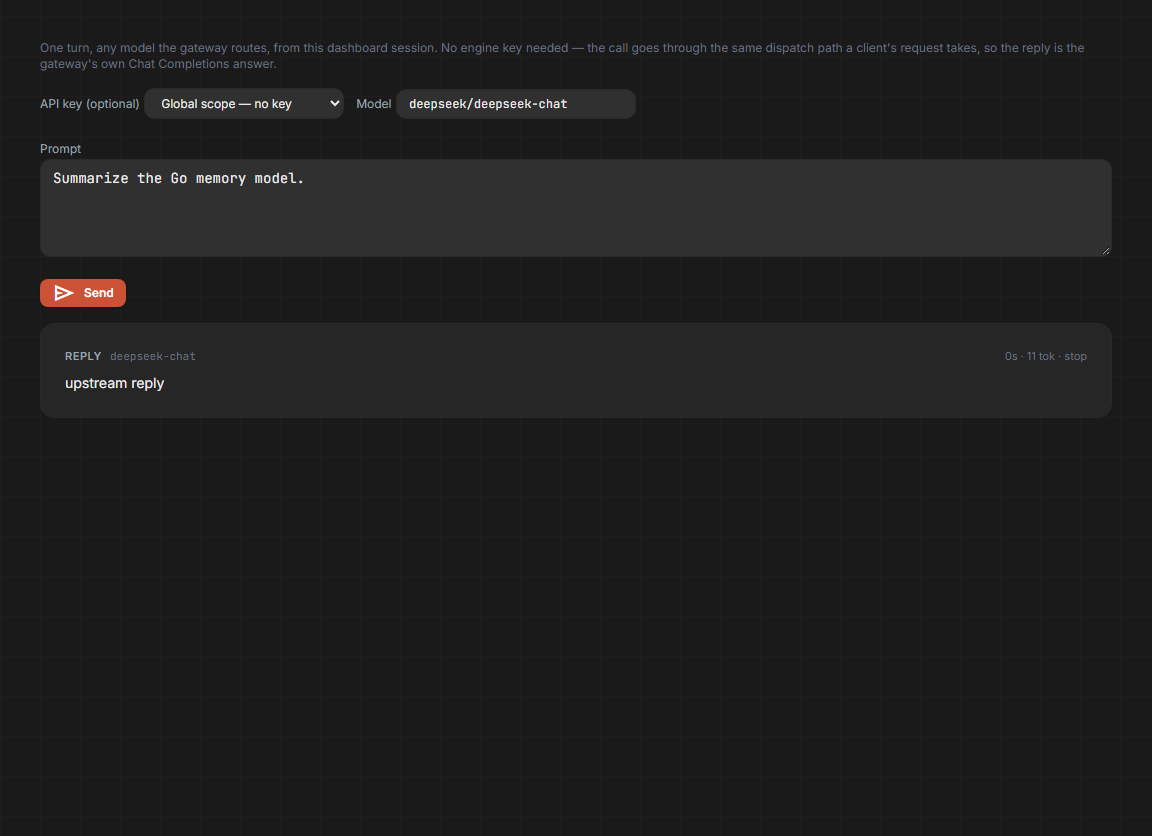
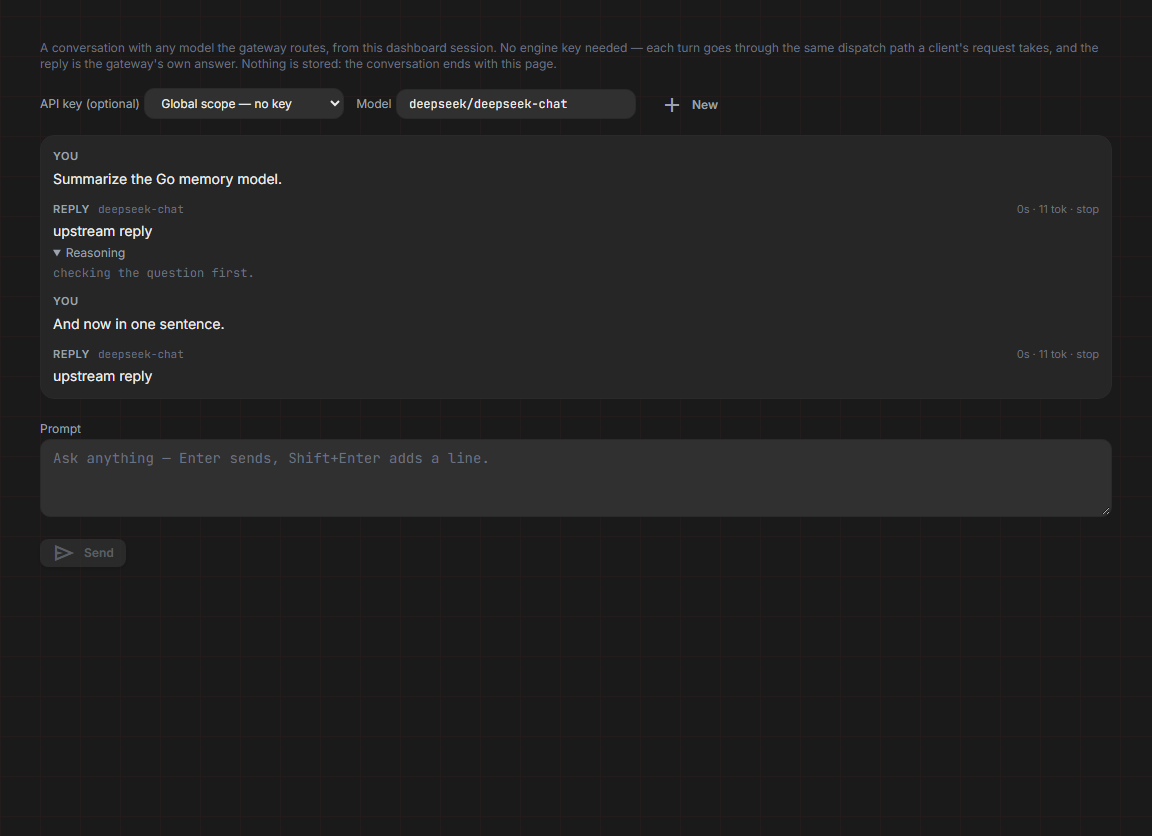
refactor(dashboard): drop the unused non-streaming playground helper, refresh capture
The non-streaming client helper had no caller once the view moved to the
streaming path, so it goes rather than staying as a second way to do the
same thing. playgroundChatStream keeps the route, scoping and error
handling.

The e2e fake upstream now emits a reasoning delta on the first turn, the
test asserts the collapsible Reasoning block renders it, and the capture
runs after the follow-up turn with that block open, so the attached
screenshot shows the current page: two exchanges, reasoning, Stop/New
controls, model, token count and finish reason.

Verified: bun run ratchet:svelte 0 errors, bun run build clean (1835 KB
raw / 382 KB brotli), bun test e2e/playground.test.ts 20 assertions pass.

diff --git a/web/e2e/playground.test.ts b/web/e2e/playground.test.ts
@@ -52,7 +52,7 @@ function completionBody(): string {
  * The same answer as an SSE stream, in three deltas: the page has to render
  * text that arrives in pieces, which is the whole point of the streaming path.
  */
-function completionStream(): string {
+function completionStream(options: { reasoning?: boolean } = {}): string {
   const chunk = (delta: Record<string, unknown>, finish: string | null = null) =>
     `data: ${JSON.stringify({
       object: 'chat.completion.chunk',
@@ -61,6 +61,7 @@ function completionStream(): string {
     })}\n\n`
   return (
     chunk({ role: 'assistant' }) +
+    (options.reasoning ? chunk({ reasoning_content: 'checking the question first. ' }) : '') +
     chunk({ content: 'upstream ' }) +
     chunk({ content: 'reply' }) +
     `data: ${JSON.stringify({
@@ -88,7 +89,10 @@ beforeAll(async () => {
         const body = (await req.json()) as Record<string, unknown>
         upstreamBodies.push(body)
         if (body.stream === true) {
-          return new Response(completionStream(), {
+          // The first turn carries reasoning so the page's collapsible block is
+          // exercised; a follow-up answers plainly, which keeps the history the
+          // second request sends to exactly the assistant text asserted below.
+          return new Response(completionStream({ reasoning: upstreamBodies.length === 1 }), {
             status: 200,
             headers: { 'Content-Type': 'text/event-stream' },
           })
@@ -178,12 +182,8 @@ describe('playground', () => {
       expect(panel).toContain('deepseek-chat')
       expect(panel).toContain('stop')
       expect(panel).toContain('11 tok')
-
-      if (CAPTURE) {
-        mkdirSync(SHOTS, { recursive: true })
-        // The page itself, conversation included: the element that changed.
-        await page.locator('main').screenshot({ path: join(SHOTS, '1466-playground-after.png') })
-      }
+      // Reasoning the provider emitted is kept, in its own collapsible block.
+      expect(panel).toContain('Reasoning')
 
       // The upstream saw a stream request, not a buffered one.
       expect(upstreamBodies.at(-1)?.stream).toBe(true)
@@ -203,6 +203,15 @@ describe('playground', () => {
       expect(history[1].role).toBe('assistant')
       expect(history[1].content).toBe(UPSTREAM_REPLY)
       expect(history[2]).toEqual({ role: 'user', content: 'And now in one sentence.' })
+
+      if (CAPTURE) {
+        mkdirSync(SHOTS, { recursive: true })
+        // Captured after the follow-up: the log holds two exchanges, the
+        // reasoning block is open, and the controls the page now offers are all
+        // visible — the state a reviewer needs to see.
+        await page.getByText('Reasoning', { exact: true }).click()
+        await page.locator('main').screenshot({ path: join(SHOTS, '1466-playground-after.png') })
+      }
 
       // Nothing about the conversation is persisted.
       const stored = await page.evaluate(() => ({

diff --git a/web/src/api/client.ts b/web/src/api/client.ts
@@ -1821,30 +1821,14 @@ export const api = {
     }>('/api/models/meta'),
 
   /**
-   * Playground: one chat turn taken through the gateway's own dispatch, from
-   * the dashboard session rather than an engine key. `keyId` scopes the turn
-   * to that key (its model allowlist, budget and usage attribution) and is
-   * omitted for the global scope. Returns the Chat Completions JSON unchanged,
-   * or throws an ApiError carrying the gateway's status and message.
-   */
-  playgroundChat: (payload: {
-    model: string
-    messages: { role: string; content: string }[]
-    stream?: boolean
-    temperature?: number
-    maxTokens?: number
-    keyId?: string
-  }) =>
-    request<any>('/api/playground/chat', {
-      method: 'POST',
-      body: JSON.stringify(payload),
-    }),
-
-  /**
-   * Playground, streaming: same route and scoping as `playgroundChat`, but the
-   * gateway's Chat Completions stream is read as it arrives instead of being
-   * awaited whole. Each `data:` line is one upstream delta, so the caller can
-   * render tokens while the provider is still producing them.
+   * Playground: a turn taken through the gateway's own dispatch, from the
+   * dashboard session rather than an engine key. `keyId` scopes the turn to
+   * that key (its model allowlist, budget and usage attribution) and is
+   * omitted for the global scope.
+   *
+   * The gateway's Chat Completions stream is read as it arrives instead of
+   * being awaited whole: each `data:` line is one upstream delta, so the caller
+   * can render tokens while the provider is still producing them.
    *
    * `signal` is the Stop button: aborting closes the request, and the engine
    * cancels the upstream call it was making on this turn's behalf.
